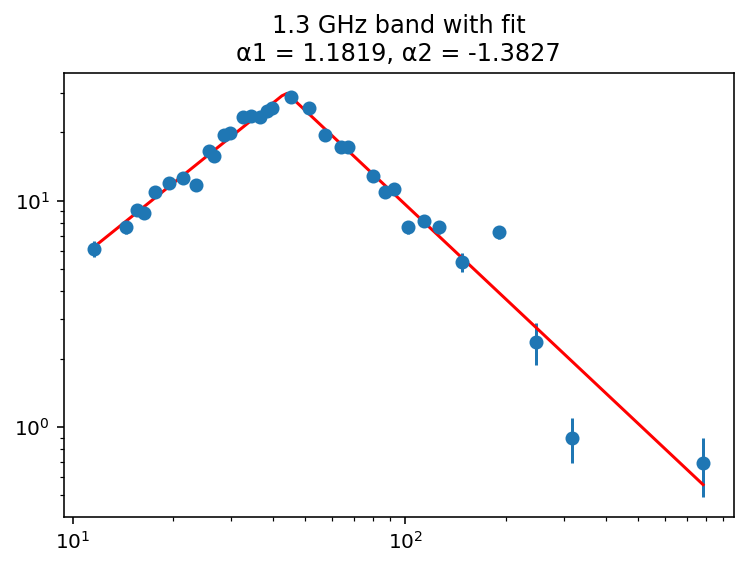
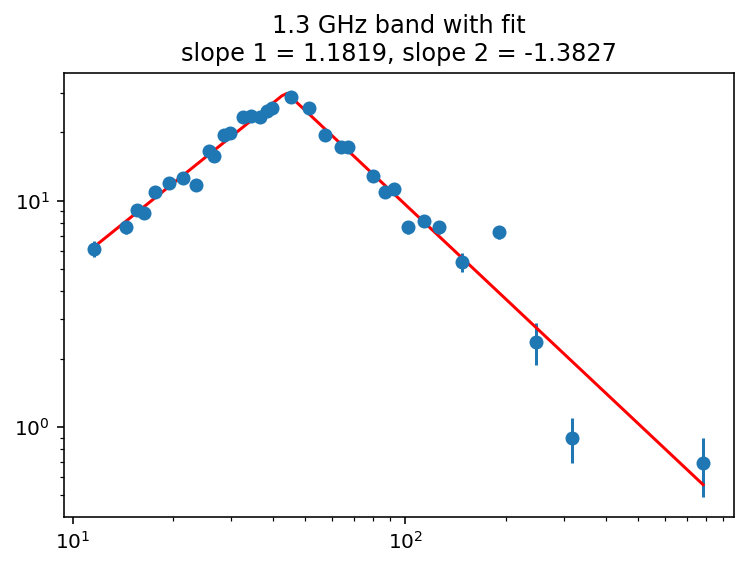
troubleshoot 8.5GHz second peak modeling, try superposition of models in between peaks for 4.9 GHz

Changed region(s): [[0.4311, 0.06, 0.8313, 0.1199], [0.2463, 0.06, 0.3387, 0.1199]]

diff --git a/src/analysis/980425_modeling.py b/src/analysis/980425_modeling.py
@@ -143,8 +143,8 @@ fitted = fitter(initial_model, x_data, y_data )
 x_fit = np.linspace(x_min, x_max, 500)
 y_fit = fitted(x_fit)
 
-alpha_1 = fitted.alpha_1.value * -1  # slope before the break
-alpha_2 = fitted.alpha_2.value  * -1 # slope after the break
+slope_1 = fitted.alpha_1.value * -1  # slope before the break
+slope_2 = fitted.alpha_2.value  * -1 # slope after the break
 amplitude = fitted.amplitude.value
 x_break = fitted.x_break.value
 
@@ -153,7 +153,7 @@ fig, ax = plt.subplots()
 
 ax.errorbar(x= freq_13[time_col], y = freq_13[flux_col], 
             yerr= freq_13[flux_err_col], fmt = 'o')
-ax.set_title(f'1.3 GHz band with fit\nα1 = {alpha_1:.4f}, α2 = {alpha_2:.4f}')
+ax.set_title(f'1.3 GHz band with fit\nslope 1 = {slope_1:.4f}, slope 2 = {slope_2:.4f}')
 ax.set_xscale('log')
 ax.set_yscale('log')
 ax.plot(x_fit, y_fit, "r-", label="Broken power law fit")
@@ -223,13 +223,13 @@ def light_curve_fit(freq_set, set_break, set_name):
     x_fit_2 = np.linspace(x_min_2, x_max_2, 500)
     y_fit_2 = fitted_2(x_fit_2)
     
-    first_alpha_1 = fitted_1.alpha_1.value *-1  # slope before the break in first peak
-    first_alpha_2 = fitted_1.alpha_2.value  *-1 # slope after the break in first peak
+    first_slope_1 = fitted_1.alpha_1.value *-1  # slope before the break in first peak
+    first_slope_2 = fitted_1.alpha_2.value  *-1 # slope after the break in first peak
     first_amplitude = fitted.amplitude.value
     first_x_break = fitted.x_break.value
     
-    second_alpha_1 = fitted_2.alpha_1.value  *-1 # slope before the break in second peak
-    second_alpha_2 = fitted_2.alpha_2.value  *-1 # slope after the break in second peak
+    second_slope_1 = fitted_2.alpha_1.value  *-1 # slope before the break in second peak
+    second_slope_2 = fitted_2.alpha_2.value  *-1 # slope after the break in second peak
     second_amplitude = fitted.amplitude.value
     second_x_break = fitted.x_break.value
     
@@ -240,11 +240,11 @@ def light_curve_fit(freq_set, set_break, set_name):
                 yerr= first_peak[flux_err_col], fmt = 'o')
     ax.errorbar(x= second_peak[time_col], y = second_peak[flux_col], 
                 yerr= second_peak[flux_err_col], fmt = 'o', c = 'r')
-    ax.set_title(f' {set_name} GHz band with fit\nfirst α1 = {first_alpha_1:.3f}, first α2 = {first_alpha_2:.3f},\nsecond α1 = {second_alpha_1:.3f} , second α2 = {second_alpha_2:.3f}')
+    ax.set_title(f' {set_name} GHz band with fit\nfirst slope set 1 = {first_slope_1:.3f}, first slope set 2 = {first_slope_2:.3f},\nsecond slope set 1 = {second_slope_1:.3f} , second slope set 2 = {second_slope_2:.3f}')
     ax.set_xscale('log')
     ax.set_yscale('log')
     ax.plot(x_fit_1, y_fit_1, "b-", label="Broken power law fit 1")
-    ax.plot(x_fit_2, y_fit_2, "r-", label="Broken power law fit 2")
+    ax.plot(x_fit_2, y_fit_2, "k-", label="Broken power law fit 2")
     ax.legend()
     plt.show()
     
@@ -252,13 +252,41 @@ def light_curve_fit(freq_set, set_break, set_name):
 
     PeakFit = namedtuple('PeakFit', ['a1', 'a2', 'amp', 'brk'])
     
-    first_peak_fits = PeakFit(a1=first_alpha_1, a2=first_alpha_2, amp=first_amplitude, brk=first_x_break)
-    second_peak_fits = PeakFit(a1=second_alpha_1, a2=second_alpha_2, amp=second_amplitude, brk=second_x_break)
+    first_peak_fits = PeakFit(a1=first_slope_1, a2=first_slope_2, amp=first_amplitude, brk=first_x_break)
+    second_peak_fits = PeakFit(a1=second_slope_1, a2=second_slope_2, amp=second_amplitude, brk=second_x_break)
 
 
-    return first_peak_fits, second_peak_fits
+    return fitted_1, fitted_2
     
 first_peak_fits_49, second_peak_fits_49 = light_curve_fit(freq_49, break_set_49, name_49)
 first_peak_fits_85, second_peak_fits_85 = light_curve_fit(freq_85, break_set_85, name_85)
 
 print(first_peak_fits_49, second_peak_fits_49)
+
+# superposition test
+break_time_1 = first_peak_fits_49.x_break
+break_time_2 = second_peak_fits_49.x_break
+
+x_fit_1 = np.linspace(freq_49[time_col].min(), break_time_1, 500)
+x_fit_2 = np.linspace(break_time_1, break_time_2, 500)
+x_fit_3 = np.linspace(break_time_2, freq_49[time_col].max(), 500)
+
+y_fit_1 = first_peak_fits_49(x_fit_1)
+
+y_fit_2_1 = first_peak_fits_49(x_fit_2)
+y_fit_2_2 = second_peak_fits_49(x_fit_2)
+y_fit_2 = y_fit_2_1 + y_fit_2_2
+
+y_fit_3 = second_peak_fits_49(x_fit_3)
+
+fig, ax = plt.subplots()
+ax.errorbar(x= freq_49[time_col], y = freq_49[flux_col], 
+            yerr= freq_49[flux_err_col], fmt = 'o')
+ax.set_title('4.9 GHz with superposition of models between peaks')
+ax.set_xscale('log')
+ax.set_yscale('log')
+ax.plot(x_fit_1, y_fit_1, "b-", label="Broken power law fit 1")
+ax.plot(x_fit_2, y_fit_2, "b-", label="Broken power law fit 2- superposition")
+ax.plot(x_fit_3, y_fit_3, "b-", label="Broken power law fit 3")
+plt.show()
+
